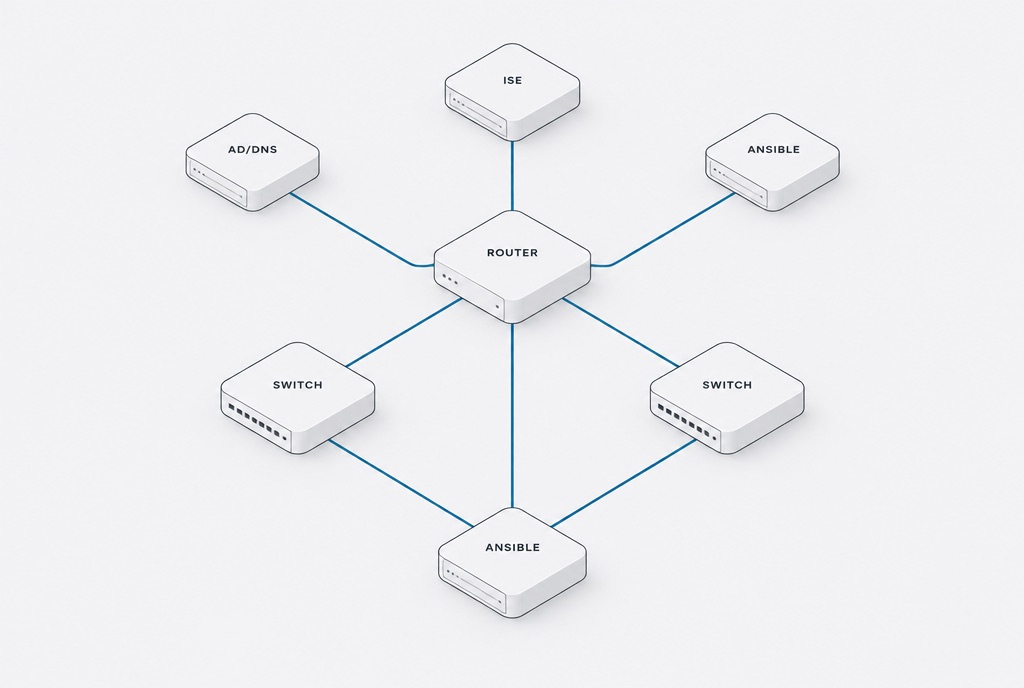
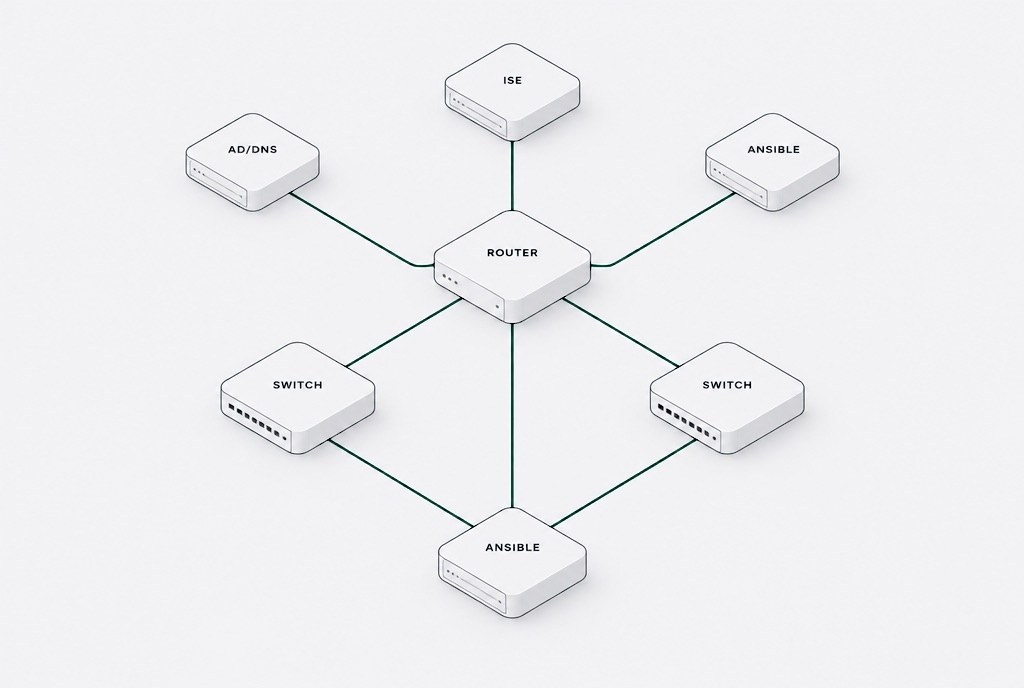
Replace the Tailwind sky blue with bottle green; add two custom animations
Change the accent to #1f5c49 (#6fc3a3 on dark) across buttons, links, the
roadmap, the hero sphere, and 26 illustrations. Rename the CSS tokens to
--accent to match.
Add packets that route across the hero sphere and light their path, and a
hairline that traces the button edge on hover. Both stay off under reduced
motion.

diff --git a/styles.css b/styles.css
@@ -7,11 +7,11 @@
   --line:    #d2d2d7;
   --tile:    #f5f5f7;
   --white:   #ffffff;
-  --blue:      #0369a1;
-  --blue-dark: #04578a;
-  --blue-on-dark: #0ea5e9;
-  --btn:       #0369a1;
-  --btn-hover: #04578a;
+  --accent:      #1f5c49;
+  --accent-dark: #174737;
+  --accent-on-dark: #6fc3a3;
+  --btn:       #1f5c49;
+  --btn-hover: #174737;
   --line-2:  #e5e5ea;
   --nav-bg:  rgba(255,255,255,.72);
   --nav-line: rgba(0,0,0,.08);
@@ -32,7 +32,7 @@
 :root[data-theme="dark"] {
   --ink: #f5f5f7; --ink-2: #d2d2d7; --gray: #a1a1a6; --gray-2: #86868b;
   --faint: #3a3a3c; --line: #38383a; --line-2: #2c2c2e;
-  --tile: #1c1c1e; --white: #000000; --blue: #0ea5e9;
+  --tile: #1c1c1e; --white: #000000; --accent: #6fc3a3;
   --nav-bg: rgba(22,22,23,.72); --nav-line: rgba(255,255,255,.08); --menu-bg: rgba(22,22,23,.96);
   color-scheme: dark;
 }
@@ -52,8 +52,8 @@ body {
   overflow-x: clip;
 }
 a { color: inherit; }
-::selection { background: var(--blue); color: #fff; }
-:focus-visible { outline: 2px solid var(--blue); outline-offset: 3px; border-radius: 4px; }
+::selection { background: var(--accent); color: var(--white); }
+:focus-visible { outline: 2px solid var(--accent); outline-offset: 3px; border-radius: 4px; }
 
 .skip-link {
   position: absolute; left: 12px; top: -60px; z-index: 300;
@@ -97,17 +97,17 @@ nav {
 /* underline draws left to right */
 .nav-links a::after {
   content: ""; position: absolute; left: 0; right: 0; bottom: -4px;
-  height: 1.5px; background: var(--blue);
+  height: 1.5px; background: var(--accent);
   transform: scaleX(0); transform-origin: left center;
   transition: transform .3s var(--ease);
 }
 .nav-links a:hover, .nav-links a.active { opacity: 1; }
 .nav-links a:hover::after, .nav-links a.active::after { transform: scaleX(1); }
-.nav-links a.active { color: var(--blue); }
+.nav-links a.active { color: var(--accent); }
 nav.dark { background: rgba(22,22,23,.8); border-color: rgba(255,255,255,.08); }
 nav.dark .wordmark, nav.dark .nav-links a, nav.dark .nav-toggle { color: #f5f5f7; }
-nav.dark .nav-links a.active { color: var(--blue-on-dark); }
-nav.dark .nav-links a::after { background: var(--blue-on-dark); }
+nav.dark .nav-links a.active { color: var(--accent-on-dark); }
+nav.dark .nav-links a::after { background: var(--accent-on-dark); }
 
 .nav-right { display: flex; align-items: center; gap: 1.5rem; }
 .theme-toggle {
@@ -170,10 +170,20 @@ nav.dark .theme-toggle { color: #f5f5f7; }
 }
 .pill:hover {
   background: var(--btn-hover);
-  box-shadow: 0 0 22px rgba(3,105,161,.28), 0 12px 32px rgba(3,105,161,.24); /* taste-skill-ignore: hover state only */
+  box-shadow: 0 0 22px rgba(31,92,73,.28), 0 12px 32px rgba(31,92,73,.24); /* taste-skill-ignore: hover state only */
 }
 .pill:active { transform: scale(.98); }
-.more { font-size: 17px; color: var(--blue); text-decoration: none; }
+.pill { position: relative; }
+.trace { position: absolute; inset: 0; width: 100%; height: 100%; pointer-events: none; fill: none; }
+.trace rect {
+  x: 3.5px; y: 3.5px; width: calc(100% - 7px); height: calc(100% - 7px); rx: 8.5px;
+  stroke: #fff; stroke-opacity: .85; stroke-width: 1.25;
+  stroke-dasharray: 1; stroke-dashoffset: 1;
+  transition: stroke-dashoffset .22s var(--ease);
+}
+.pill:hover .trace rect, .pill:focus-visible .trace rect { stroke-dashoffset: 0; transition: stroke-dashoffset .55s cubic-bezier(.76, 0, .24, 1); }
+.pill:disabled .trace { display: none; }
+.more { font-size: 17px; color: var(--accent); text-decoration: none; }
 .more::after { content: " \203A"; display: inline-block; transition: transform .3s var(--ease); }
 .more:hover::after { transform: translateX(3px); }
 
@@ -244,8 +254,8 @@ h1 {
 .mindset-body .w { color: var(--faint); transition: color .35s var(--ease); }
 .mindset-body .w.lit { color: var(--ink); }
 .mindset-body a.book-link { text-decoration: none; }
-.mindset-body a.book-link .w.lit { color: var(--blue); }
-.mindset-body a.book-link:hover { text-decoration: underline; text-decoration-color: var(--blue); }
+.mindset-body a.book-link .w.lit { color: var(--accent); }
+.mindset-body a.book-link:hover { text-decoration: underline; text-decoration-color: var(--accent); }
 
 /* Skills bento */
 .bento { display: grid; grid-template-columns: repeat(6, 1fr); gap: 20px; }
@@ -344,7 +354,7 @@ h1 {
 .cert-abbr { grid-row: span 2; font-size: 22px; font-weight: 600; letter-spacing: -0.03em; line-height: 1.1; }
 .cert-name { font-size: 15px; color: #a1a1a6; line-height: 1.35; }
 .cert-meta { font-size: 13px; color: #86868b; margin-top: .3rem; }
-.cert-meta.wip { color: var(--blue-on-dark); }
+.cert-meta.wip { color: var(--accent-on-dark); }
 
 /* Contact */
 .contact { display: grid; grid-template-columns: minmax(0, 1fr) minmax(0, 1.1fr); gap: clamp(2.5rem, 6vw, 5rem); align-items: start; }
@@ -359,7 +369,7 @@ h1 {
 }
 .direct-label { font-size: 14px; color: var(--gray); }
 .direct-value { font-size: clamp(1.05rem, 1.8vw, 1.25rem); font-weight: 600; letter-spacing: -0.015em; transition: color .2s; }
-.direct a:hover .direct-value { color: var(--blue); }
+.direct a:hover .direct-value { color: var(--accent); }
 
 .form-card { position: relative; background: var(--tile); border-radius: var(--r-card); padding: clamp(1.5rem, 4vw, 2.5rem); }
 .form-title { font-size: 21px; font-weight: 600; letter-spacing: -0.02em; margin-bottom: 1.5rem; }
@@ -376,7 +386,7 @@ h1 {
 }
 .field textarea { min-height: 140px; resize: vertical; }
 .field input::placeholder, .field textarea::placeholder { color: var(--gray-2); }
-.field input:focus, .field textarea:focus { outline: none; border-color: var(--blue); box-shadow: 0 0 0 3px rgba(3,105,161,.14); } /* taste-skill-ignore: focus ring */
+.field input:focus, .field textarea:focus { outline: none; border-color: var(--accent); box-shadow: 0 0 0 3px rgba(31,92,73,.16); } /* taste-skill-ignore: focus ring */
 .btn-submit { width: 100%; margin-top: .5rem; min-height: 52px; gap: .6rem; }
 .btn-submit:disabled { opacity: .6; cursor: not-allowed; }
 .spinner {
@@ -396,7 +406,7 @@ h1 {
   transition: opacity .4s var(--ease), visibility .4s;
 }
 .form-success.show { opacity: 1; visibility: visible; }
-.success-check { width: 44px; height: 44px; fill: none; stroke: var(--blue); stroke-width: 2; stroke-linecap: round; stroke-linejoin: round; margin-bottom: 1rem; }
+.success-check { width: 44px; height: 44px; fill: none; stroke: var(--accent); stroke-width: 2; stroke-linecap: round; stroke-linejoin: round; margin-bottom: 1rem; }
 .success-title { font-size: 21px; font-weight: 600; margin-bottom: .5rem; }
 .success-msg { font-size: 15px; color: var(--gray); max-width: 30ch; }
 
@@ -523,7 +533,7 @@ footer { background: var(--tile); }
 .page-intro { padding-top: calc(var(--nav-h) + clamp(4rem, 10vw, 7rem)); padding-bottom: clamp(3rem, 7vw, 5rem); }
 .back { font-size: 14px; color: var(--gray); text-decoration: none; }
 .back::before { content: "\2039\00a0"; }
-.back:hover { color: var(--blue); }
+.back:hover { color: var(--accent); }
 .page-title { font-size: clamp(2.6rem, 7vw, 5rem); font-weight: 700; line-height: 1.02; letter-spacing: -0.04em; margin-top: 1.25rem; max-width: 14em; }
 .page-title .soft { color: var(--gray-2); }
 .page-lead { font-size: clamp(1.15rem, 2vw, 1.35rem); line-height: 1.45; color: var(--ink-2); max-width: 38em; margin-top: 1.5rem; }
@@ -550,7 +560,7 @@ footer { background: var(--tile); }
 .prose { max-width: 680px; }
 .prose p { font-size: clamp(1.05rem, 1.6vw, 1.2rem); line-height: 1.6; color: var(--ink-2); }
 .prose p + p { margin-top: 1.3em; }
-.prose a { color: var(--blue); }
+.prose a { color: var(--accent); }
 .prose .detail-shot { margin: 2.2em 0; }
 .foot-links { display: flex; flex-wrap: wrap; gap: .5rem 1.25rem; }
 .foot-links a { text-decoration: none; color: var(--gray); }
@@ -576,7 +586,7 @@ footer { background: var(--tile); }
 .roadmap { list-style: none; }
 .road-track, .road-fill { position: absolute; left: 195px; top: 12px; height: calc(var(--end, 100%) - 12px); width: 3px; border-radius: 3px; }
 .road-track { background: var(--line-2); }
-.road-fill { background: var(--blue); transform-origin: top; transform: scaleY(var(--p, 0)); }
+.road-fill { background: var(--accent); transform-origin: top; transform: scaleY(var(--p, 0)); }
 .stop { position: relative; display: grid; grid-template-columns: 160px minmax(0, 1fr); gap: 0 72px; padding-bottom: clamp(3rem, 6vw, 4.5rem); }
 .stop:last-child { padding-bottom: 0; }
 .stop::before {
@@ -585,7 +595,7 @@ footer { background: var(--tile); }
   background: var(--white); border: 3px solid var(--line);
   transition: background .3s var(--ease), border-color .3s var(--ease), transform .3s var(--ease);
 }
-.stop.reached::before { background: var(--blue); border-color: var(--blue); transform: scale(1.15); }
+.stop.reached::before { background: var(--accent); border-color: var(--accent); transform: scale(1.15); }
 .stop-when { font-size: 15px; font-weight: 600; color: var(--gray); text-align: right; padding-top: 2px; }
 .stop-body h3 { font-size: clamp(1.5rem, 2.6vw, 2rem); font-weight: 600; letter-spacing: -0.025em; line-height: 1.15; }
 .stop-body p + p { margin-top: .9rem; }
@@ -614,7 +624,7 @@ footer { background: var(--tile); }
 /* a small arrow between layers shows the direction of flow */
 .layer:not(:last-child)::after {
   content: ""; position: absolute; top: 50%; right: -15px; z-index: 1;
-  width: 10px; height: 10px; border-top: 2px solid var(--blue); border-right: 2px solid var(--blue);
+  width: 10px; height: 10px; border-top: 2px solid var(--accent); border-right: 2px solid var(--accent);
   transform: translateY(-50%) rotate(45deg);
 }
 .topology { margin: 0; }
@@ -624,7 +634,7 @@ footer { background: var(--tile); }
 .topology figcaption { display: flex; flex-wrap: wrap; align-items: center; justify-content: space-between; gap: 1rem 2rem; margin-top: 1.25rem; color: var(--gray); font-size: 15px; }
 .pipeline { list-style: none; display: flex; flex-wrap: wrap; gap: .6rem; margin-bottom: 2rem; counter-reset: none; }
 .pipeline li { position: relative; font-size: 14px; font-weight: 500; color: var(--ink); background: var(--tile); border-radius: var(--r-small); padding: .4rem .9rem; }
-.pipeline li:not(:last-child)::after { content: "\203A"; position: absolute; right: -.5rem; top: 50%; transform: translate(50%, -55%); color: var(--blue); font-weight: 600; }
+.pipeline li:not(:last-child)::after { content: "\203A"; position: absolute; right: -.5rem; top: 50%; transform: translate(50%, -55%); color: var(--accent); font-weight: 600; }
 .skill-groups { display: grid; grid-template-columns: repeat(3, 1fr); gap: 20px; }
 .skill-group { background: var(--tile); border-radius: var(--r-card); padding: clamp(1.4rem, 2.6vw, 1.9rem); }
 .skill-group h3 { font-size: 19px; font-weight: 600; letter-spacing: -0.015em; margin-bottom: 1rem; }
@@ -646,7 +656,7 @@ footer { background: var(--tile); }
   background: var(--white); color: var(--ink); font: inherit; text-decoration: none;
   display: inline-flex; align-items: center; justify-content: center; cursor: pointer;
 }
-.viewer-controls button:hover, .viewer-controls a:hover { color: var(--blue); }
+.viewer-controls button:hover, .viewer-controls a:hover { color: var(--accent); }
 .viewer-zoom { min-width: 3.5rem; text-align: center; color: var(--gray); }
 .viewer-stage { flex: 1; overflow: auto; background: #fff; -webkit-overflow-scrolling: touch; }
 .viewer-stage img { display: block; width: 100%; max-width: none; height: auto; }

diff --git a/site.js b/site.js
@@ -39,6 +39,16 @@
       const d = Math.sqrt(dx * dx + dy * dy + dz * dz);
       if (d < TH) edges.push([i, j, d]);
     }
+    // Packets hop node to node along the links; the route they took stays lit, then fades.
+    const links = nodes.map(() => []);
+    edges.forEach(([a, b], e) => { links[a].push([b, e]); links[b].push([a, e]); });
+    const heat = new Float32Array(edges.length), ping = new Float32Array(N);
+    const hop = (pk, from) => {
+      const opts = links[from].filter(([to]) => to !== pk.from);
+      const [to, e] = opts[Math.floor(Math.random() * opts.length)] || links[from][0];
+      pk.from = from; pk.to = to; pk.e = e; pk.t = 0;
+    };
+    const packets = [0, 40, 80].map(n => { const pk = { from: -1 }; hop(pk, n); return pk; });
     let W = 0, H = 0, R = 0, ang = 0, tx = 0, ty = 0, mx = 0, my = 0;
     const FOV = 3.2;
     const resize = () => {
@@ -65,17 +75,47 @@
       const pts = nodes.map(p => project(p, ang + tx, 0.18 + ty));
       for (const [a, b, d] of edges) {
         const dep = (pts[a].d + pts[b].d) / 2;
-        ctx.strokeStyle = (dark ? 'rgba(14,165,233,' : 'rgba(3,105,161,') + ((0.04 + dep * 0.24) * (1 - (d / TH) * 0.4)).toFixed(3) + ')';
+        ctx.strokeStyle = (dark ? 'rgba(111,195,163,' : 'rgba(31,92,73,') + ((0.04 + dep * 0.24) * (1 - (d / TH) * 0.4)).toFixed(3) + ')';
         ctx.lineWidth = 0.5 + dep * 0.6;
         ctx.beginPath(); ctx.moveTo(pts[a].x, pts[a].y); ctx.lineTo(pts[b].x, pts[b].y); ctx.stroke();
       }
+      const ink = dark ? 'rgba(111,195,163,' : 'rgba(31,92,73,';
+      if (!reduce) edges.forEach(([a, b], e) => {
+        if (heat[e] < 0.01) return;
+        ctx.strokeStyle = ink + (heat[e] * (0.25 + (pts[a].d + pts[b].d) * 0.3)).toFixed(3) + ')';
+        ctx.lineWidth = 1.4;
+        ctx.beginPath(); ctx.moveTo(pts[a].x, pts[a].y); ctx.lineTo(pts[b].x, pts[b].y); ctx.stroke();
+        heat[e] *= 0.975;
+      });
       for (const p of pts) {
         ctx.beginPath();
         ctx.arc(p.x, p.y, 1 + p.d * 2.4, 0, Math.PI * 2);
-        ctx.fillStyle = (dark ? 'rgba(56,189,248,' : 'rgba(14,165,233,') + (0.18 + p.d * 0.55).toFixed(3) + ')';
+        ctx.fillStyle = (dark ? 'rgba(111,195,163,' : 'rgba(31,92,73,') + (0.18 + p.d * 0.55).toFixed(3) + ')';
         ctx.fill();
       }
-      if (!reduce) { ang += 0.0018; requestAnimationFrame(frame); }
+      if (!reduce) {
+        pts.forEach((p, i) => {
+          if (ping[i] < 0.02) return;
+          ctx.beginPath();
+          ctx.arc(p.x, p.y, 3 + (1 - ping[i]) * 13, 0, Math.PI * 2);
+          ctx.strokeStyle = ink + (ping[i] * 0.5).toFixed(3) + ')';
+          ctx.lineWidth = 1;
+          ctx.stroke();
+          ping[i] *= 0.95;
+        });
+        for (const pk of packets) {
+          const a = pts[pk.from], b = pts[pk.to];
+          const u = pk.t * pk.t * (3 - 2 * pk.t);
+          ctx.beginPath();
+          ctx.arc(a.x + (b.x - a.x) * u, a.y + (b.y - a.y) * u, 2.2 + (a.d + b.d) * 0.9, 0, Math.PI * 2);
+          ctx.fillStyle = ink + (0.45 + (a.d + b.d) * 0.275).toFixed(3) + ')';
+          ctx.fill();
+          heat[pk.e] = Math.max(heat[pk.e], u);
+          pk.t += 0.024;
+          if (pk.t >= 1) { ping[pk.to] = 1; hop(pk, pk.to); }
+        }
+        ang += 0.0018; requestAnimationFrame(frame);
+      }
     };
     const home = document.getElementById('home');
     if (!reduce) {
@@ -90,6 +130,11 @@
     resize(); frame();
     requestAnimationFrame(() => canvas.classList.add('on'));
   }
+
+  // Buttons: a hairline that traces the edge on hover.
+  document.querySelectorAll('.pill').forEach(b => {
+    b.insertAdjacentHTML('beforeend', '<svg class="trace" aria-hidden="true"><rect pathLength="1" /></svg>');
+  });
 
   // Statement: split into words (keeping links intact), then light them in reading order.
   const mindset = document.querySelector('.mindset-body');

diff --git a/DESIGN-PROFILE.md b/DESIGN-PROFILE.md
@@ -11,10 +11,11 @@ of a fresh intake. Change it by saying "change the style" or editing this file.
 
 ## Tokens
 Live in `styles.css` on `:root`, with dark values under `[data-theme="dark"]`.
-- Colour: ground #ffffff, tile #f5f5f7, ink #1d1d1f, muted #6e6e73, accent #0369a1 (#0ea5e9 on dark)
+- Colour: ground #ffffff, tile #f5f5f7, ink #1d1d1f, muted #6e6e73, accent bottle green #1f5c49 (#6fc3a3 on dark)
 - Type: system SF stack, tabular figures, no monospace
 - Edges: cards 14px, tiles 10px, buttons 12px, flat tone step with no borders
-- Hover: lift and tilt on client cards, blur only glow on buttons
+- Hover: lift and tilt on client cards, blur only glow plus a hairline edge trace on buttons
+- Signature motion: packets hop along the hero sphere's links and light the route behind them
 - Light by default; dark only through the toggle
 
 ## Words
@@ -35,7 +36,7 @@ Live in `styles.css` on `:root`, with dark values under `[data-theme="dark"]`.
 | Circles | Headshot, roadmap stops, theme toggle | These are not cards or buttons |
 
 ## Imagery
-Isometric illustrations from Higgsfield (`gpt_image_2_5`) at 3:2, on light gray with deep blue as the only accent, using existing assets as style references. New ones carry no text. Client work stays flat screenshots.
+Isometric illustrations from Higgsfield (`gpt_image_2_5`) at 3:2, on light gray with the green accent as the only colour, using existing assets as style references. New ones carry no text. Client work stays flat screenshots.
 
 ## Done means
 - Screens: index, about, ai, capabilities, projects, track-record
